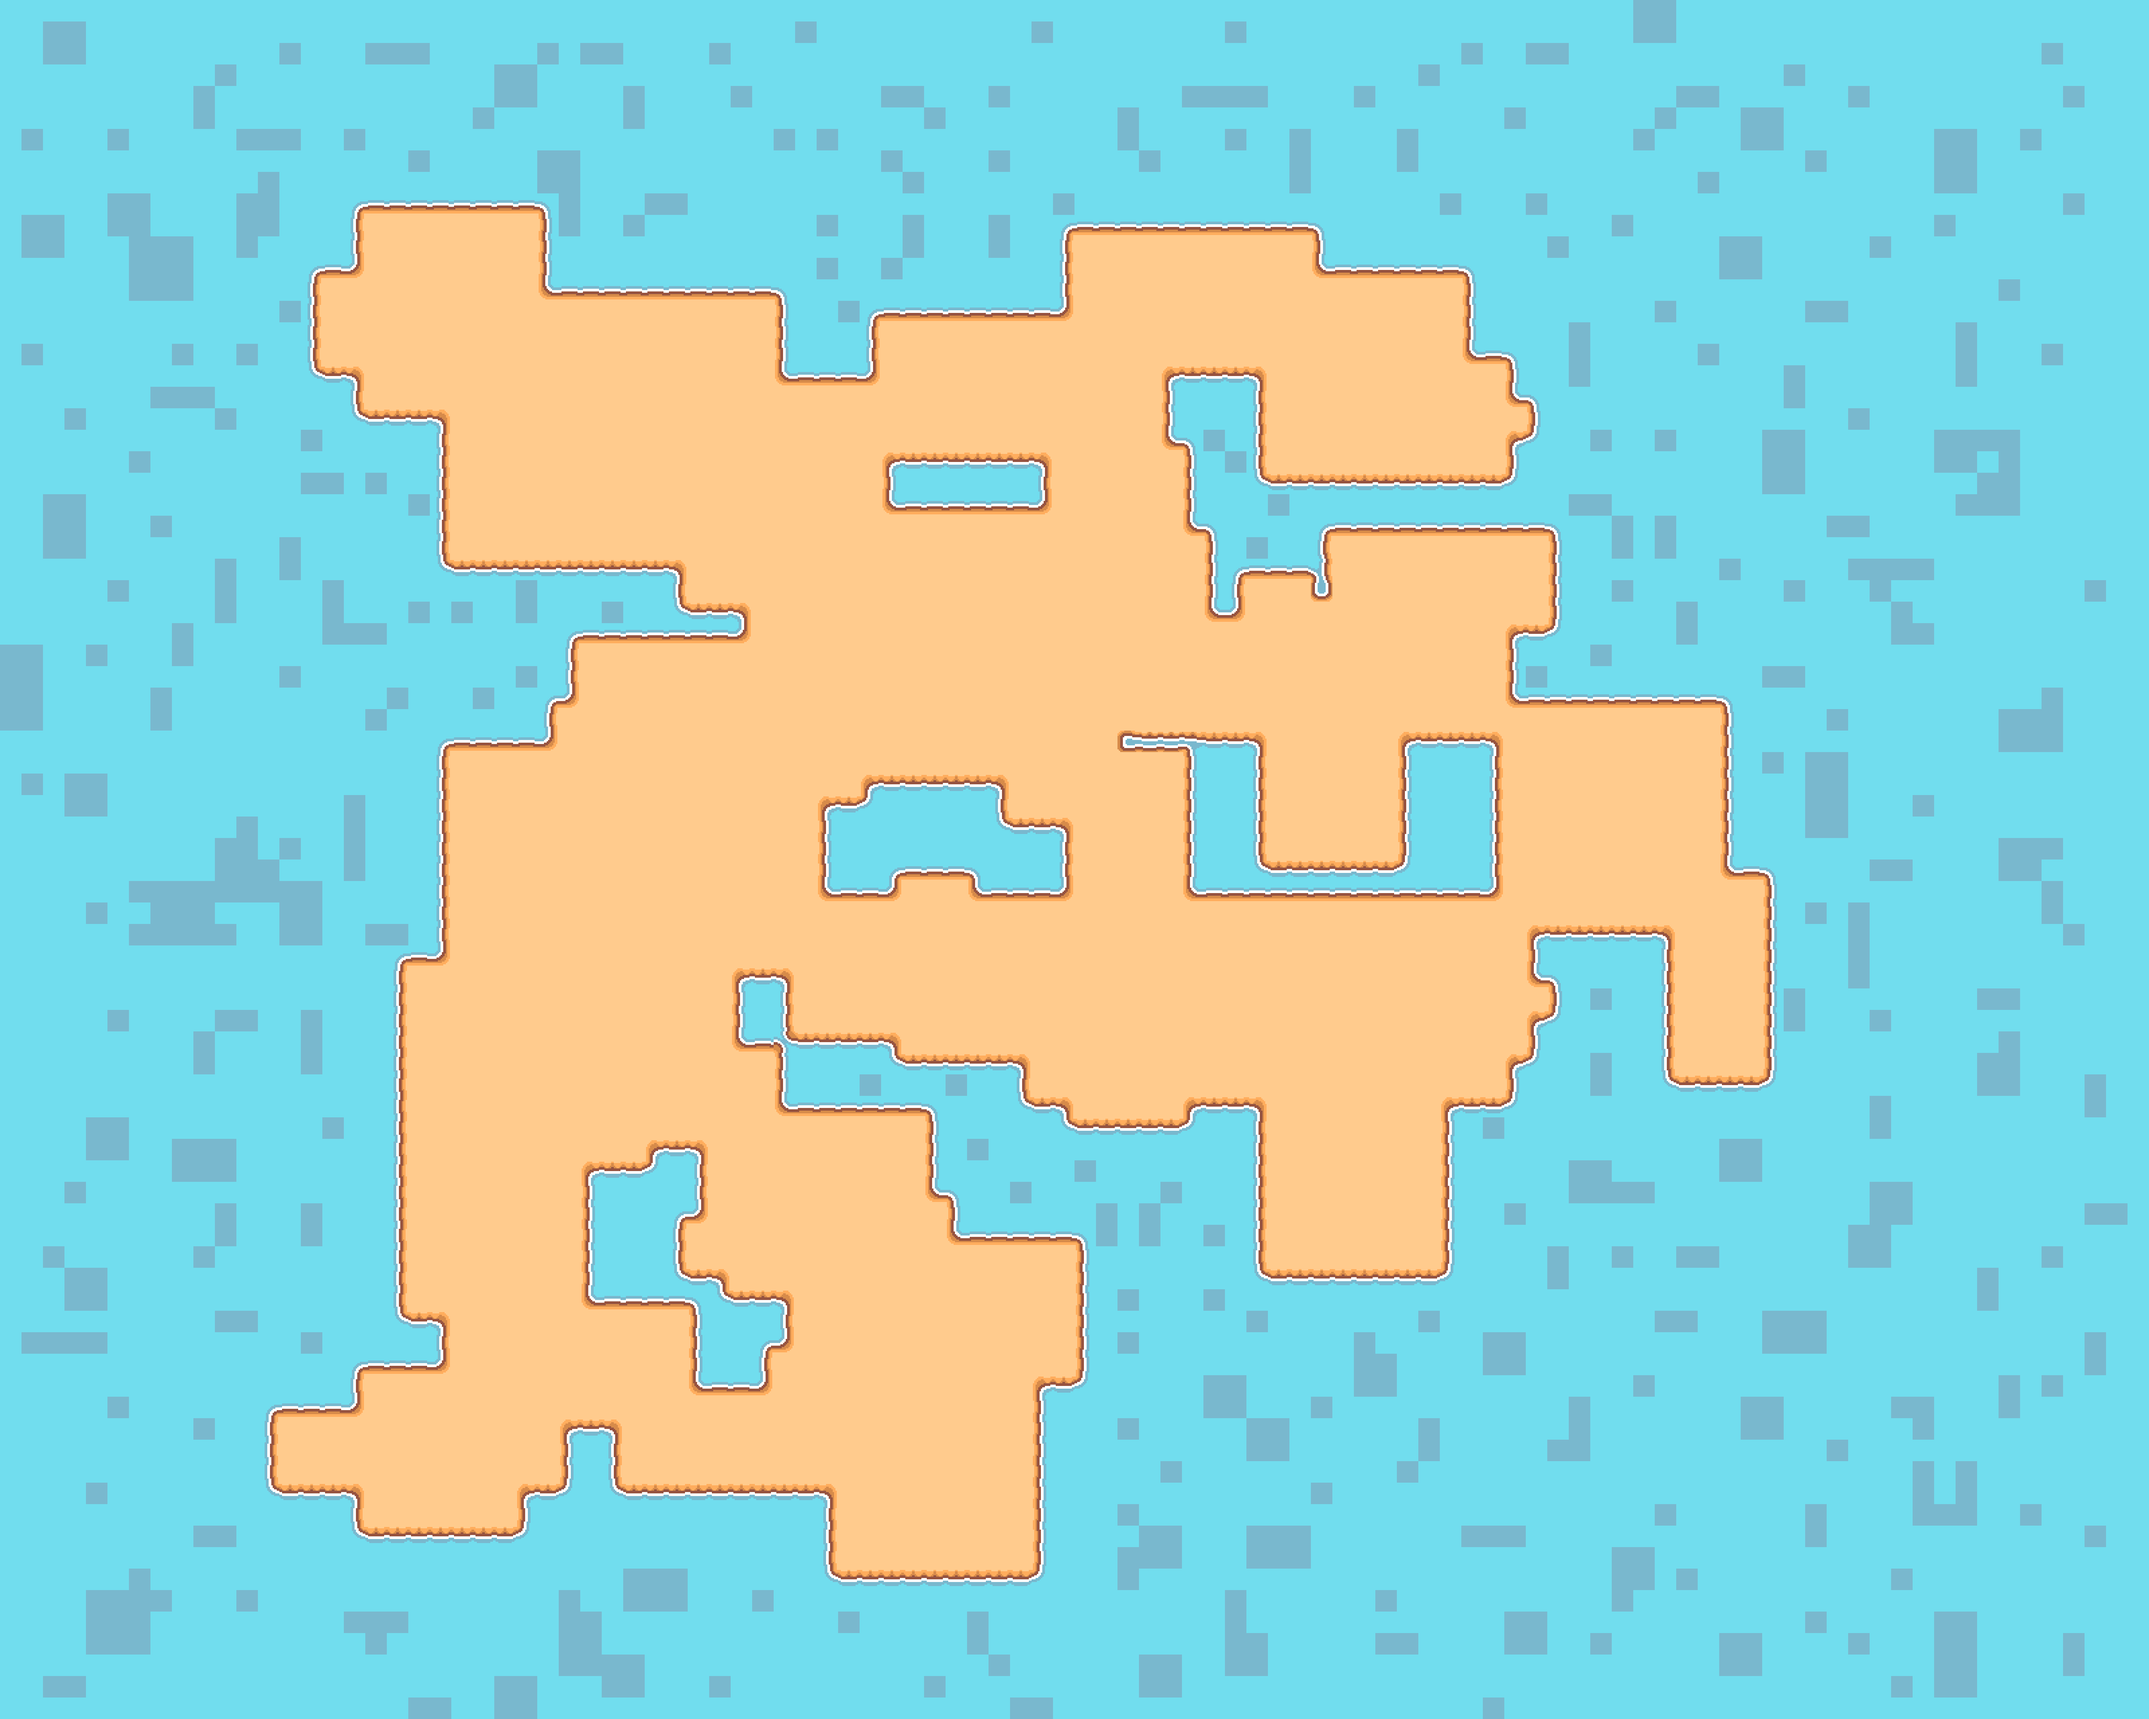
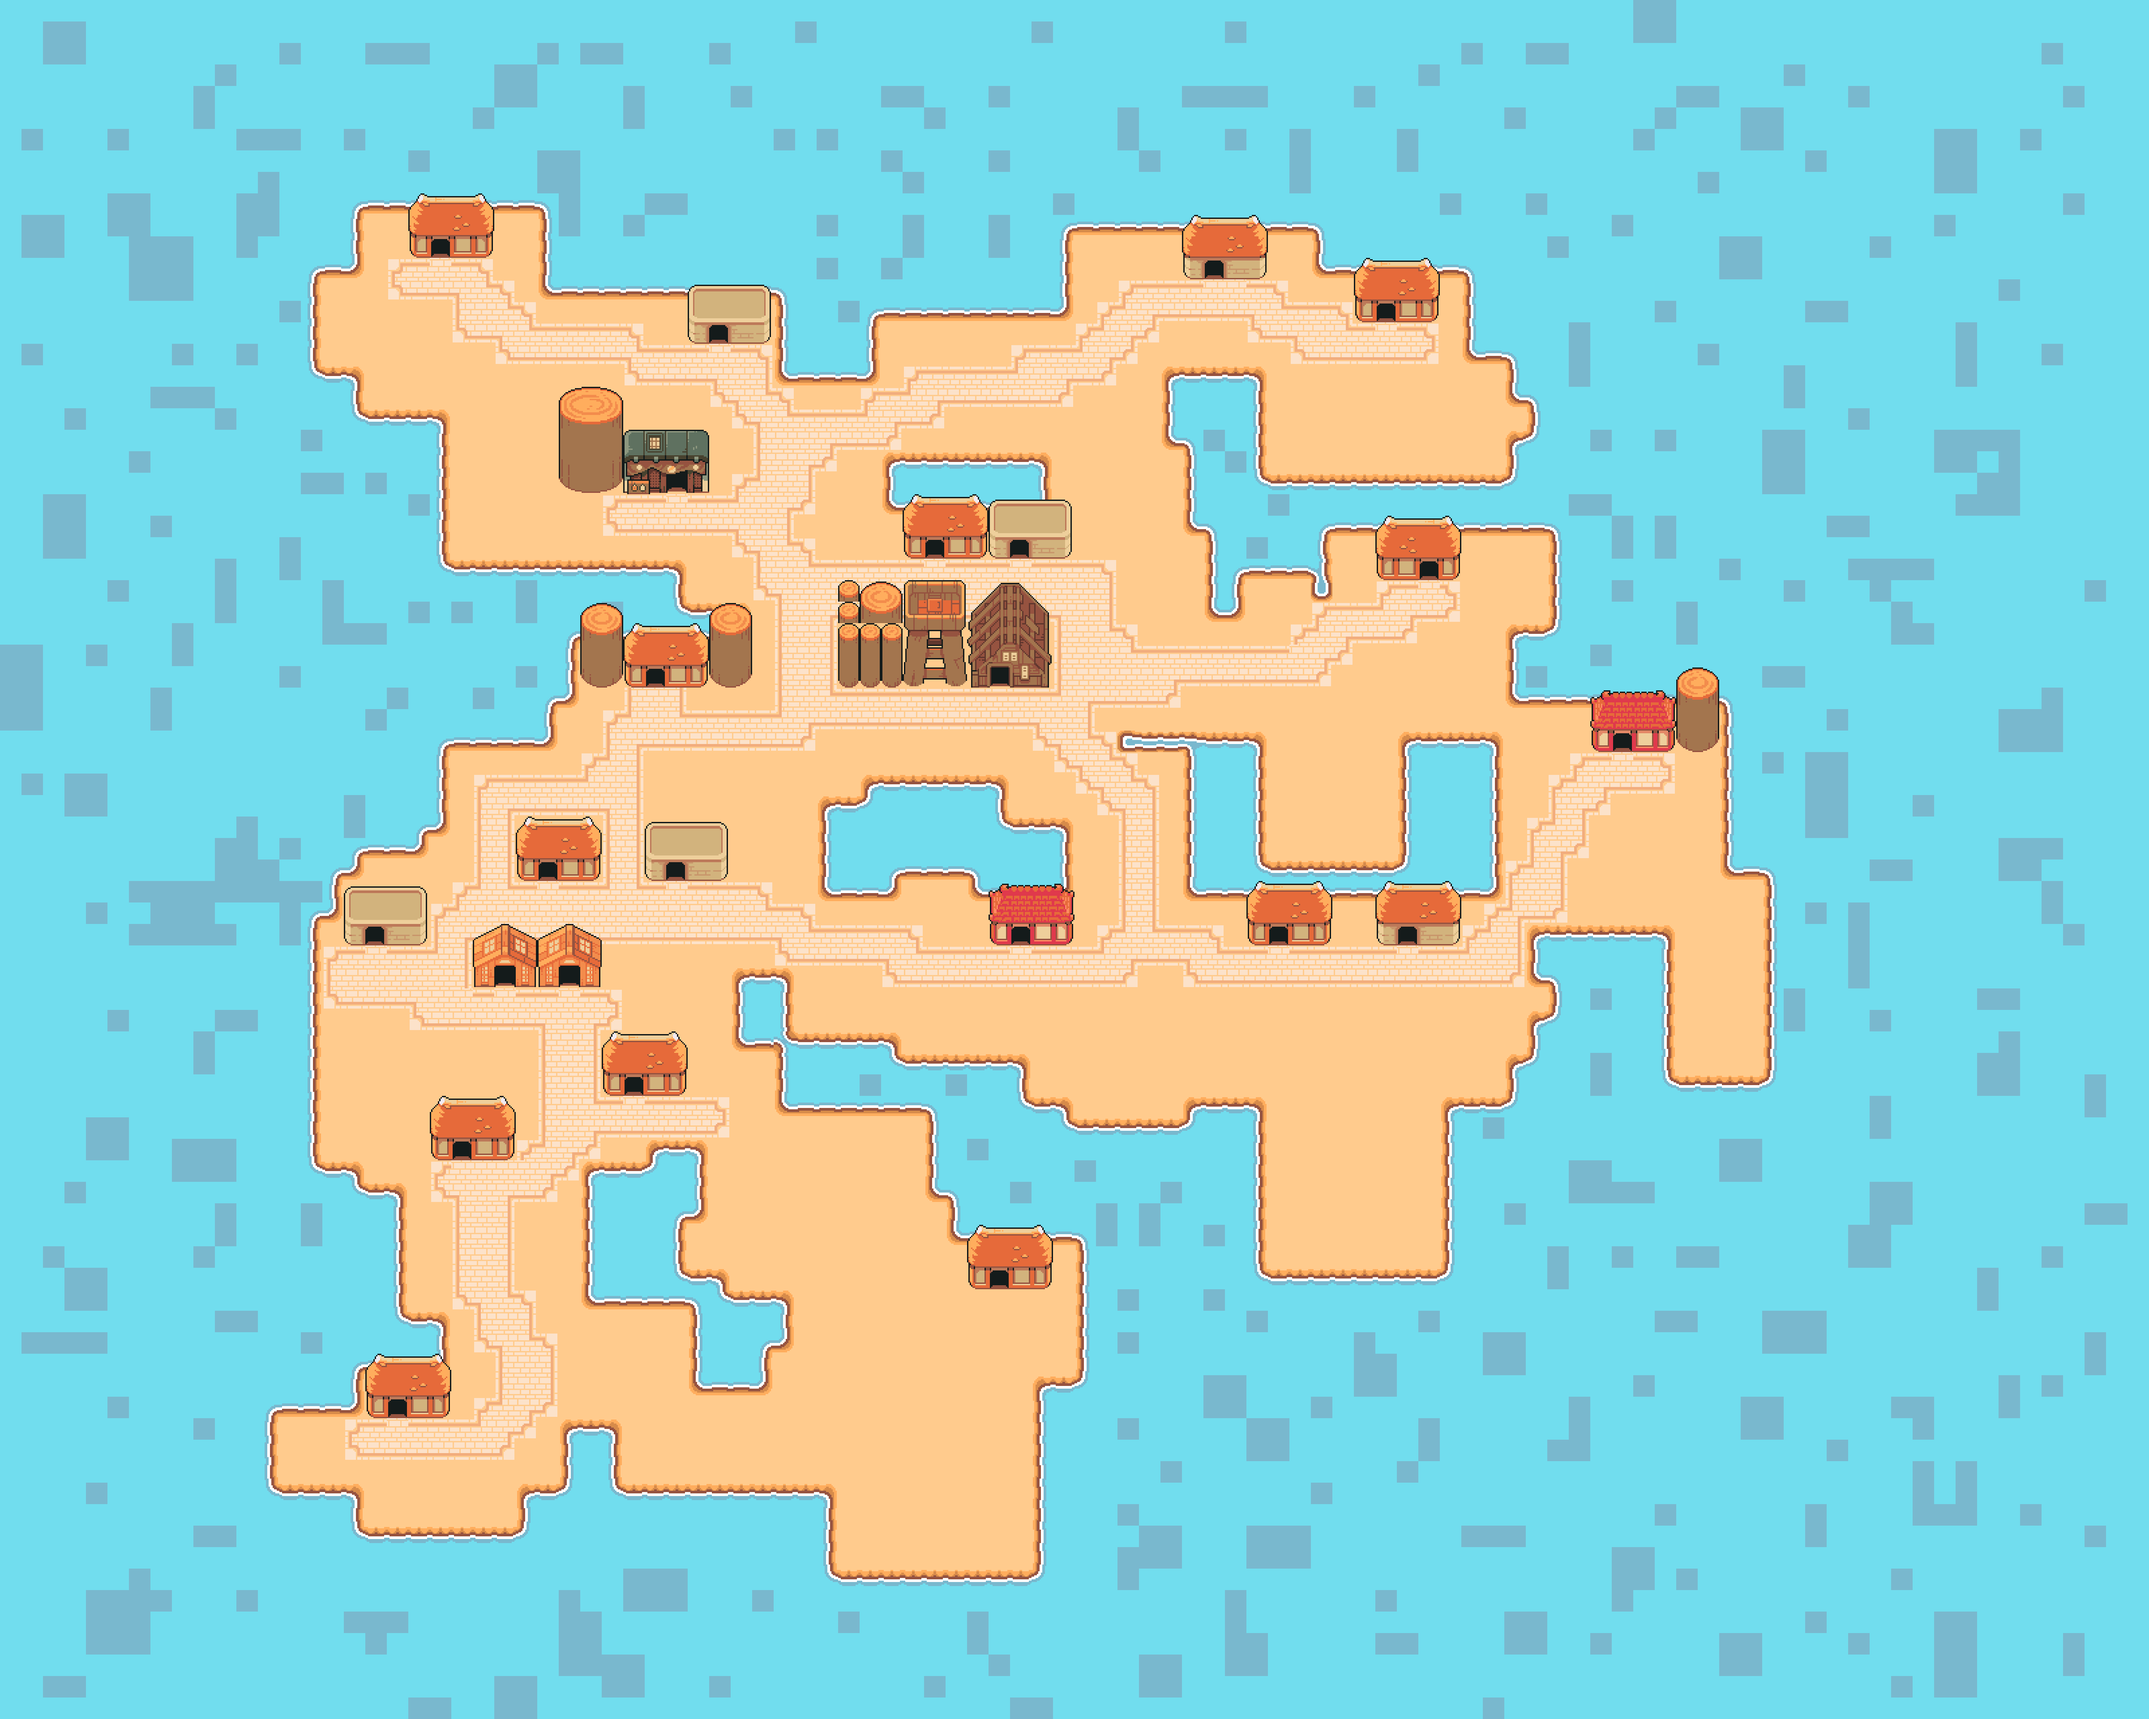
Updated Tile Map with houses and Path

Changed region(s): [[0.125, 0.0938, 0.8125, 0.875], [0.4375, 0.7188, 0.5, 0.75]]

diff --git a/stili.css b/stili.css
@@ -213,7 +213,7 @@ input[type = "submit"]:hover {
     top: 50%;
     left: 50%;
     transform: translate(-50%, -50%);
-    width: 100px;
-    height: 100px;
+    width: 70px;
+    height: 70px;
     z-index: 3;
 }
